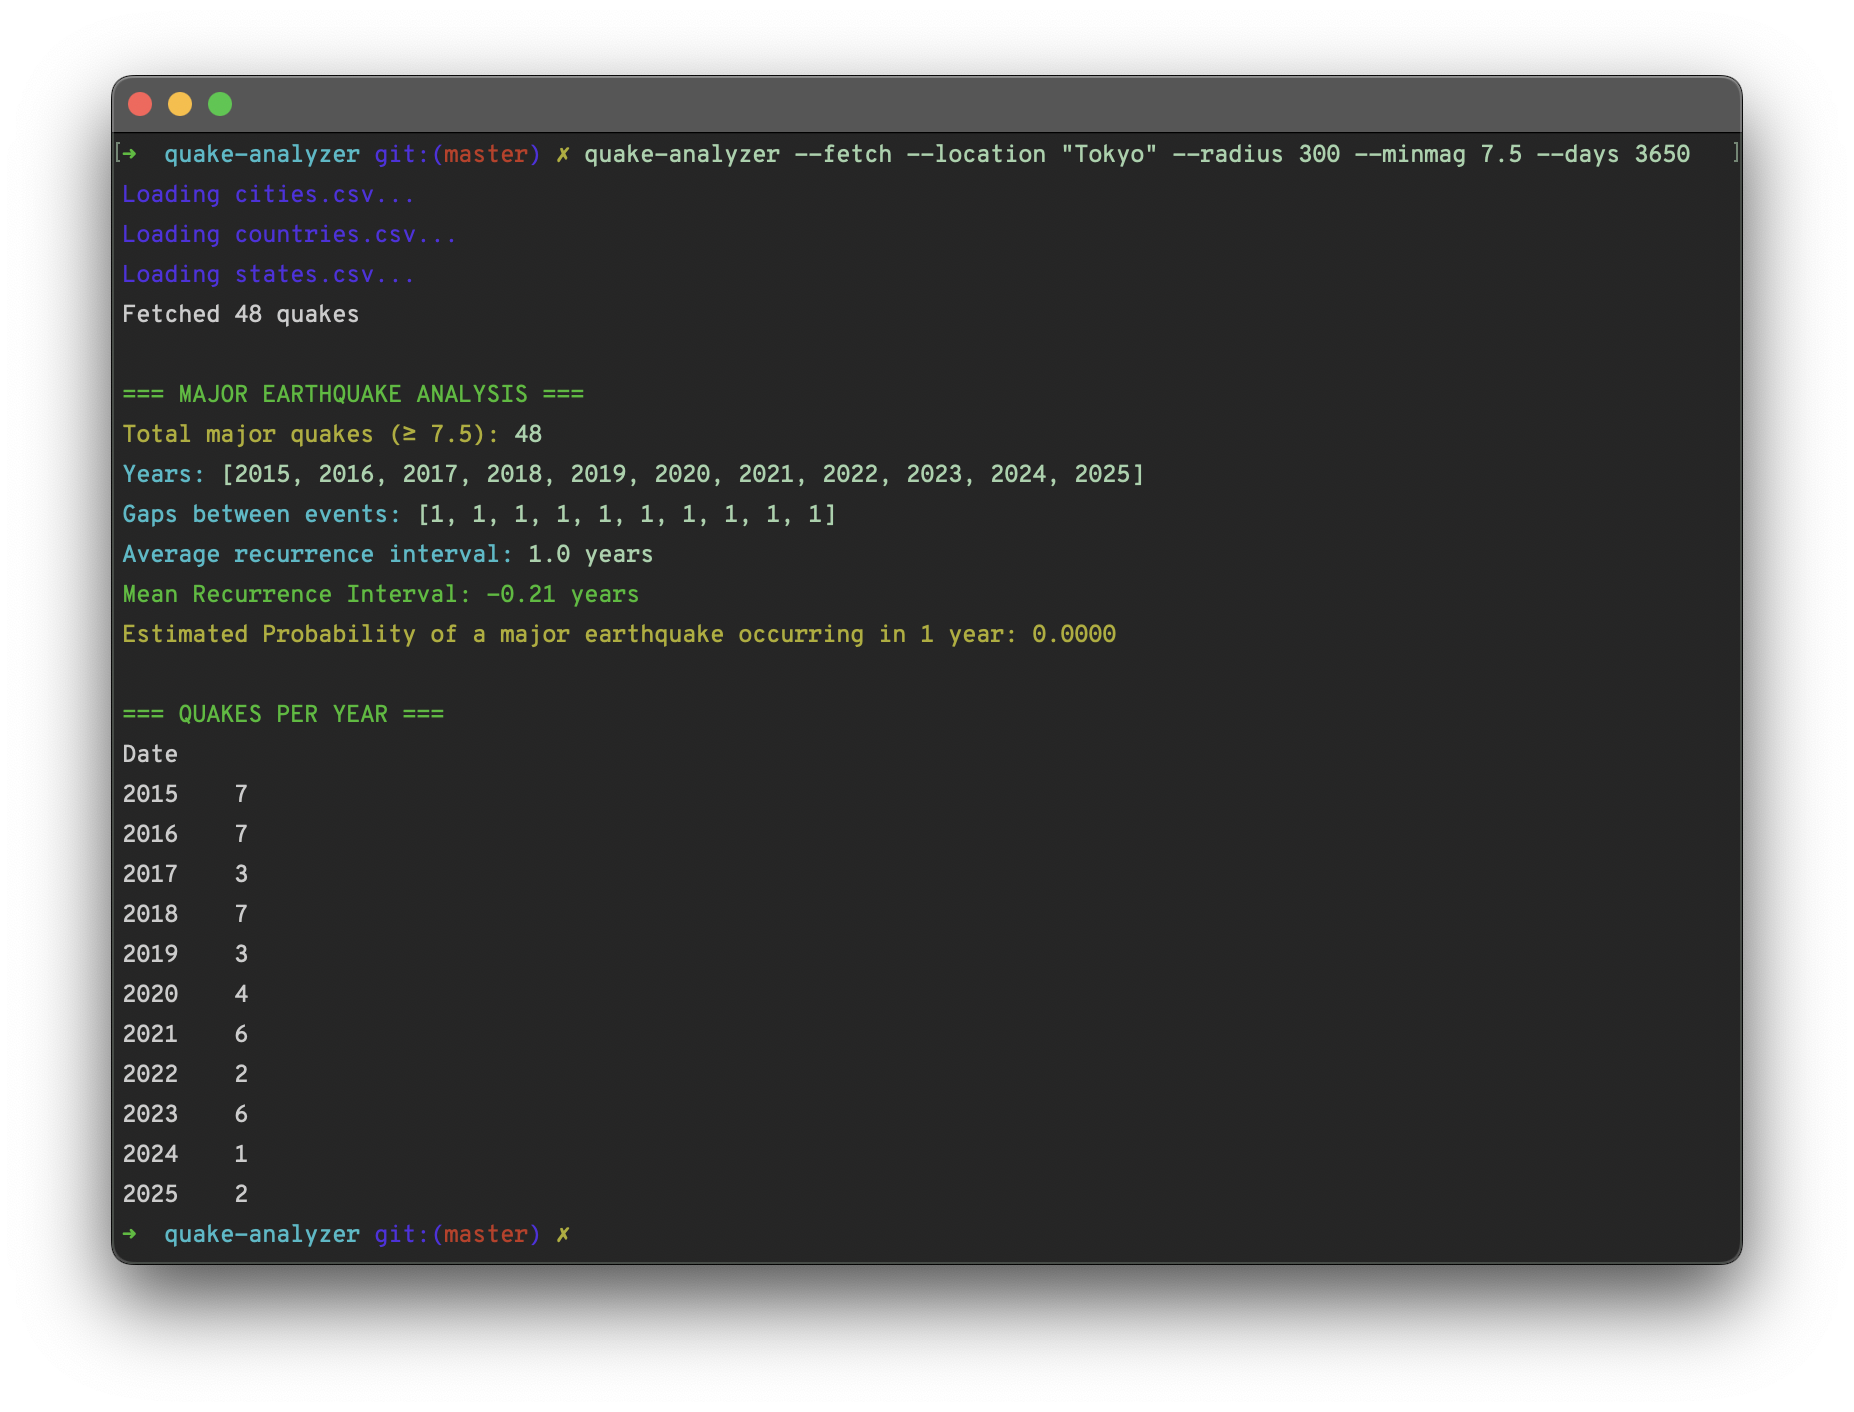
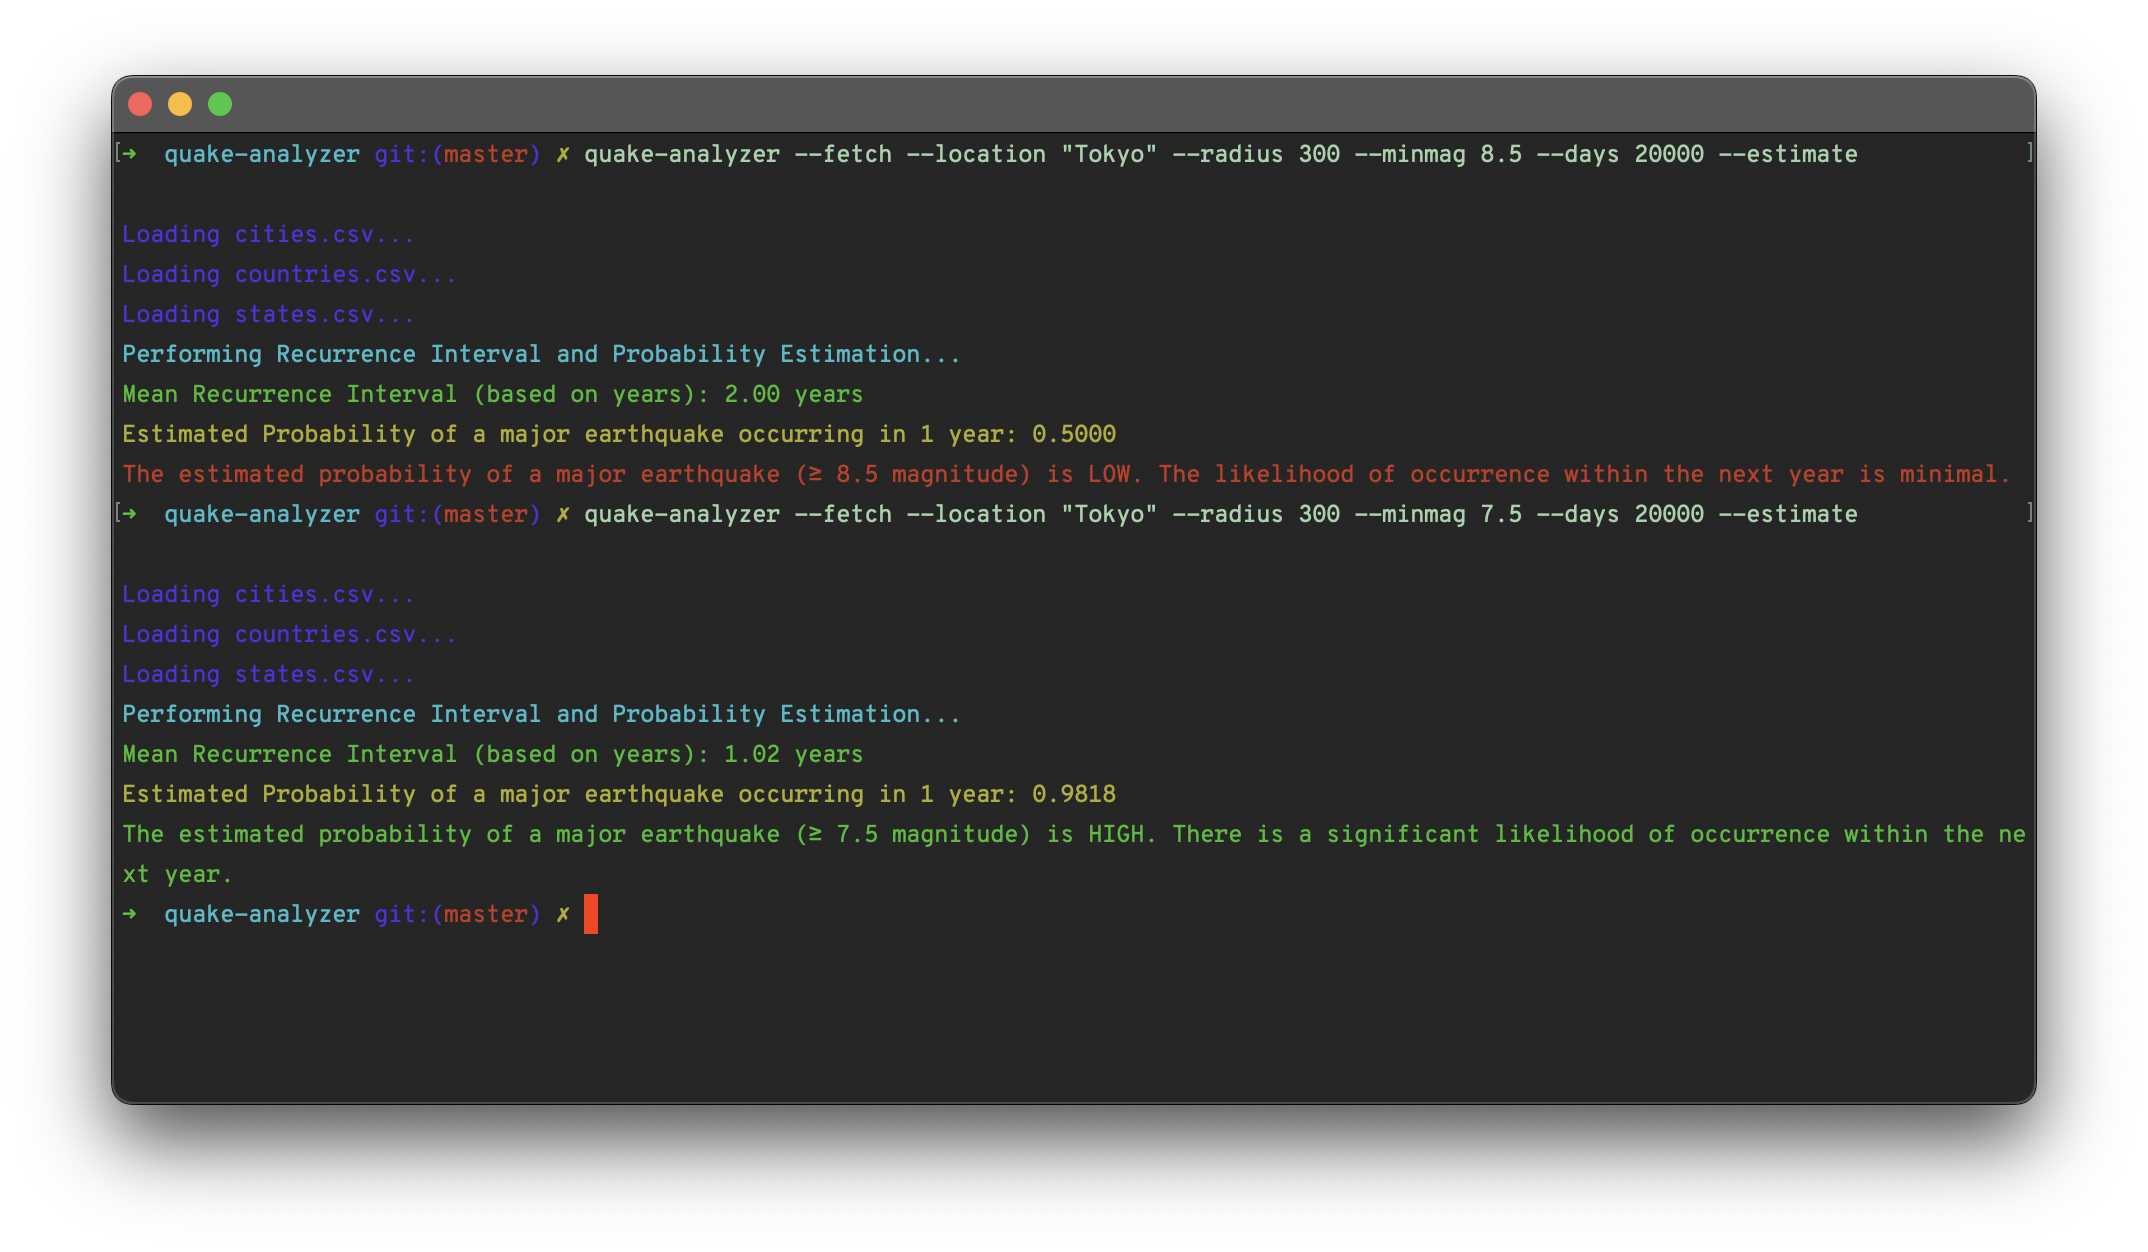
Fixed missing 'minmag' argument in estimate_recurrence_interval() function and ensured proper plotting logic with matplotlib.
Fixed missing minmag argument by passing it when calling estimate_recurrence_interval().

Ensured correct handling of --plot by checking if matplotlib is installed and if per_year data is available.

Added checks for empty data and graceful error handling when no data is fetched for plotting.

Ensured minmag is passed correctly when fetching data or using manual input (--data).

Changed region(s): [[0.0307, 0.0312, 0.9531, 0.9345]]

diff --git a/src/quake_analyzer/cli.py b/src/quake_analyzer/cli.py
@@ -65,27 +65,47 @@ def fetch_usgs_quakes(min_magnitude=4.5, days=90, lat=None, lon=None, radius_km=
     return quakes
 
 # Estimate Recurrence Interval and Probability
-def estimate_recurrence_interval(quake_data):
+def estimate_recurrence_interval(quake_data, minmag):
     # Extract timestamps of the earthquakes
     timestamps = [q[0] for q in quake_data]
     magnitudes = [q[1] for q in quake_data]
 
-    # Filter major quakes (>= 6.0 magnitude)
-    major_quakes = [q for q in zip(timestamps, magnitudes) if q[1] >= 6.0]
-    
+    # Filter major quakes (>= minmag)
+    major_quakes = [q for q in zip(timestamps, magnitudes) if q[1] >= minmag]
+
     # Convert timestamps to datetime objects
     dates = [datetime.fromisoformat(ts) for ts, _ in major_quakes]
 
-    # Calculate time intervals (in years)
-    time_intervals = [(dates[i] - dates[i-1]).days / 365.25 for i in range(1, len(dates))]
+    # Group quakes by year
+    years = [d.year for d in dates]
+    years.sort()
 
-    # Calculate mean recurrence interval
-    mean_recurrence_interval = np.mean(time_intervals)
-    probability = 1 / mean_recurrence_interval if mean_recurrence_interval > 0 else 0
+    # Calculate gaps between years (gaps = difference between consecutive years with quakes)
+    major_years = sorted(set(years))
+    gaps = [major_years[i+1] - major_years[i] for i in range(len(major_years) - 1)]
 
-    print(Fore.GREEN + f"Mean Recurrence Interval: {mean_recurrence_interval:.2f} years")
+    # Handle case if no gaps are available (e.g., too few quakes)
+    if len(gaps) == 0:
+        print(Fore.RED + "Not enough data to calculate recurrence intervals.")
+        return
+
+    # Calculate mean gap (mean recurrence interval)
+    mean_gap = np.mean(gaps)
+    probability = 1 / mean_gap if mean_gap > 0 else 0
+
+    # Cap the probability to avoid unrealistic values
+    if probability > 1:
+        probability = 1
+
+    # Print results
+    print(Fore.GREEN + f"Mean Recurrence Interval (based on years): {mean_gap:.2f} years")
     print(Fore.YELLOW + f"Estimated Probability of a major earthquake occurring in 1 year: {probability:.4f}")
 
+    # Add a text-based message for the probability estimate
+    if probability >= 0.75:
+        print(Fore.GREEN + f"The estimated probability of a major earthquake (≥ {minmag} magnitude) is HIGH. There is a significant likelihood of occurrence within the next year.")
+    else:
+        print(Fore.RED + f"The estimated probability of a major earthquake (≥ {minmag} magnitude) is LOW. The likelihood of occurrence within the next year is minimal.")
 def main():
     parser = argparse.ArgumentParser(description="Analyze quake recurrence intervals.")
     parser.add_argument("--data", help="List of quakes as [[timestamp, magnitude, 'location'], ...]")
@@ -108,7 +128,7 @@ def main():
             except Exception as e:
                 print(Fore.RED + "Invalid data format. Make sure it's a Python-style list.")
                 return
-            estimate_recurrence_interval(quake_data)
+            estimate_recurrence_interval(quake_data, args.minmag)  # Pass minmag here
         elif args.fetch:
             quake_data = fetch_usgs_quakes(
                 min_magnitude=args.minmag,
@@ -117,7 +137,7 @@ def main():
                 lon=None,
                 radius_km=None
             )
-            estimate_recurrence_interval(quake_data)
+            estimate_recurrence_interval(quake_data, args.minmag)  # Pass minmag here
         else:
             print(Fore.RED + "Provide --data or --fetch for earthquake data.")
             return
@@ -178,7 +198,7 @@ def main():
     print(Fore.CYAN + "Years:", major_years)
     print(Fore.CYAN + "Gaps between events:", gaps)
     print(Fore.CYAN + "Average recurrence interval:", round(avg_gap, 2), "years")
-    estimate_recurrence_interval(quake_data)  # Display the estimate here
+    estimate_recurrence_interval(quake_data, args.minmag) 
 
     per_year = df_major.groupby("Date").size()
     print(Fore.GREEN + "\n=== QUAKES PER YEAR ===")
@@ -200,6 +220,7 @@ def main():
             plt.xlabel('Year')
             plt.tight_layout()
             plt.show()
+
         except ImportError:
             print(Fore.RED + "matplotlib not installed. Run: pip install matplotlib")
 

diff --git a/README.md b/README.md
@@ -65,6 +65,13 @@ quake-analyzer --fetch --minmag 6.0 --days 7300
 quake-analyzer --fetch --minmag 6.0 --days 7300 --estimate
 ```
 
+### Estimate Analysis (Colombia)
+```bash
+quake-analyzer --fetch --minmag 9.5 --location "Colombia" --radius 1000 --days 10000
+quake-analyzer --fetch --minmag 8.5 --location "Colombia" --radius 1000 --days 10000
+quake-analyzer --fetch --minmag 7.5 --location "Colombia" --radius 1000 --days 10000
+```
+
 ### Location based filtering
 ```bash
 # Quakes near Tokyo (within 300 km)
@@ -116,21 +123,21 @@ name,latitude,longitude
 ---
 
 ## Estimate: How It Works
-
 The estimation feature calculates two important metrics based on recent earthquake data:
-1. Recurrence Interval: The average time interval (in years) between major earthquakes (≥ 6.0 magnitude).
-2. Probability: The estimated probability of a major earthquake occurring within the next year.
+- Recurrence Interval: The average time (in years) between major earthquakes (≥ 6.0 magnitude).
+- Probability: The likelihood of a major earthquake occurring within the next year.
 
-### How the Estimate is Calculated:
-
-- The tool first filters major quakes (≥ 6.0 magnitude) from the fetched or provided earthquake data.
-- It then calculates the time intervals between consecutive quakes.
-- The mean recurrence interval is computed as the average of those time intervals.
-- Finally, the probability of an earthquake occurring within the next year is estimated as 1 / mean recurrence interval.
+### Calculation Process::
+- Filter Major Quakes: Only earthquakes with a magnitude of 6.0 or higher are considered.
+- Calculate Time Intervals: The tool calculates the time differences between each consecutive major earthquake.
+- Compute Mean Recurrence Interval: The mean recurrence interval is the average of these time intervals.
+- Estimate Probability: The probability of a major earthquake occurring within the next year is estimated as the inverse of the mean recurrence interval (1 / mean recurrence interval).
 
 Example:
 ```bash
-quake-analyzer --fetch --location "Tokyo" --radius 300 --minmag 6.0 --days 3650 --estimate
+quake-analyzer --fetch --location "Tokyo" --radius 300 --minmag 9.5 --days 20000 --estimate
+quake-analyzer --fetch --location "Tokyo" --radius 300 --minmag 8.5 --days 20000 --estimate
+quake-analyzer --fetch --location "Tokyo" --radius 300 --minmag 7.5 --days 20000 --estimate
 ```
 
 - Fetch earthquake data for Tokyo (within a 300 km radius).

diff --git a/CHANGELOG.md b/CHANGELOG.md
@@ -1,7 +1,7 @@
 # Changelog
 All notable changes to this project will be documented in this file.
 
-## [0.0.3] - 2025-04-18 - Added Recurrence Interval Estimation
+## [0.0.3] - [0.0.6] - 2025-04-18 - Added Recurrence Interval Estimation
 
 #### Added
 - Added estimate functionality for predicting the recurrence interval and probability of future major earthquakes (≥ 6.0 magnitude).
